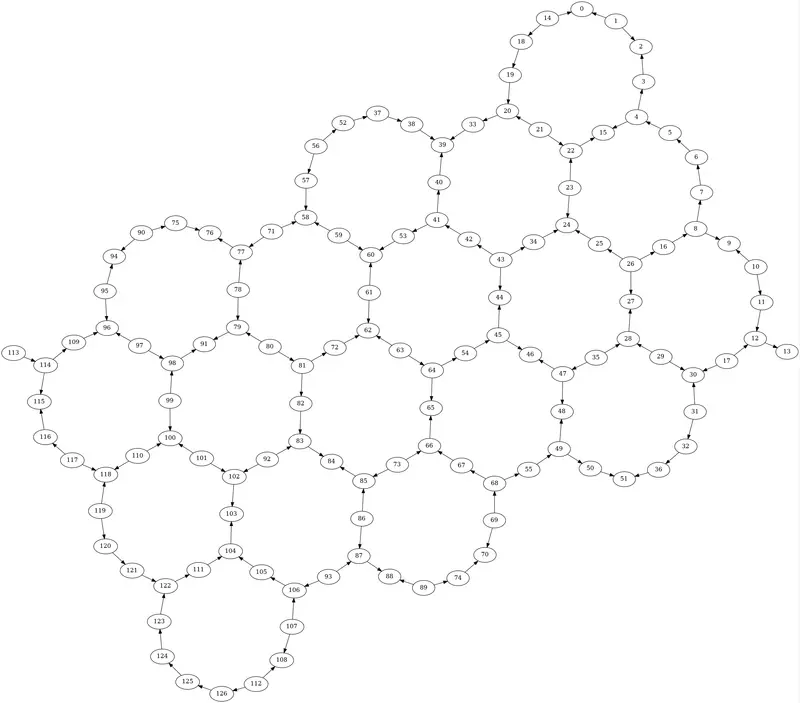
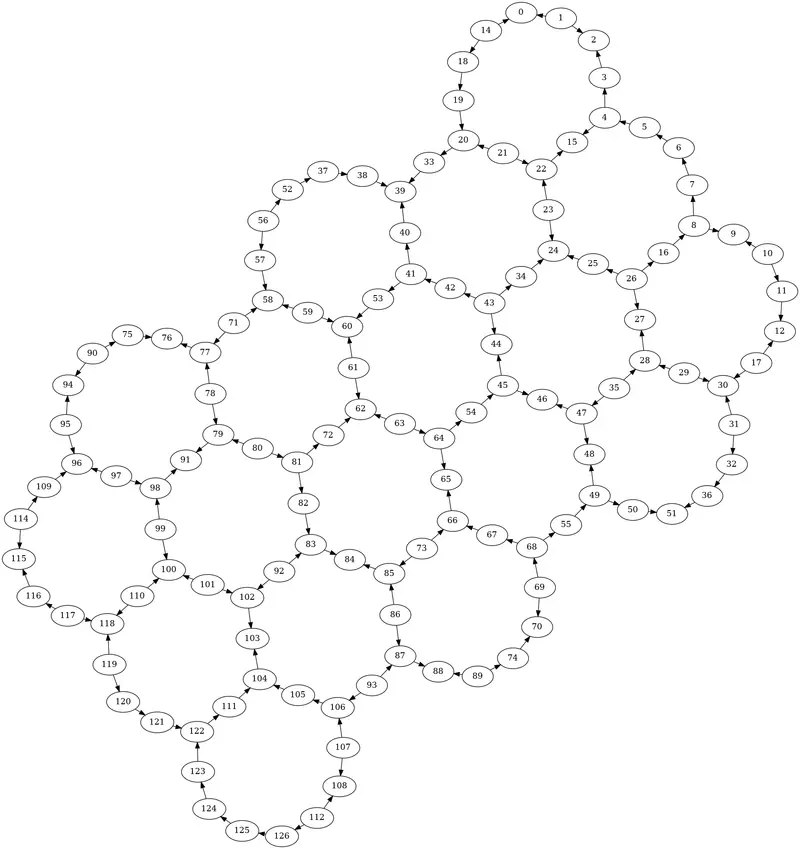
Deploying to gh-pages from @ soon-teh/soon-teh.github.io@ee4737b4a01c55de2f2b9fd6837beda7149f3444 🚀

diff --git a/blog/2023/quantum-challenge-spring-ghz/index.html b/blog/2023/quantum-challenge-spring-ghz/index.html
@@ -64,6 +64,7 @@
     <style type="text/css">
       .post-img {
   max-height: 60vh;
+  max-width: 90%;
 }
 
     </style>
@@ -224,6 +225,8 @@
 
 <p>A GHZ state can be constructed by expanding upon the Bell state preparation circuit.</p>
 
+<p><img class="mx-auto d-block mb-2 post-img" src="/assets/img/2023-05-30/centrality.png"></p>
+
 <p><img class="mx-auto d-block mb-2 post-img" src="/assets/img/2023-05-30/bfs-cnot.gif"></p>
 
 <h3 id="dynamic-circuit">Dynamic Circuit</h3>
@@ -274,9 +277,11 @@
 
 <p>The switch/case control flow acts similarly to the switch case in most programming languages and allows for an elegant way of implementing the parity X gate. However, at the time of writing, the backend <a href="https://github.com/Qiskit/qiskit-aer/pull/1778" rel="external nofollow noopener" target="_blank"><code class="language-plaintext highlighter-rouge">Aer 0.12.0</code> does not support <code class="language-plaintext highlighter-rouge">SwitchCaseOp</code></a>. So, the code implementation based on <code class="language-plaintext highlighter-rouge">if_test</code> and <code class="language-plaintext highlighter-rouge">c_if</code> are included for demonstration.</p>
 
-<p>The use of dynamic circuits for GHZ generation reduced the depth required to a fixed value independent of the size, provided one can find a route that visits every node once exists. This is exactly the <a href="https://en.wikipedia.org/wiki/Hamiltonian_path_problem" rel="external nofollow noopener" target="_blank">Hamiltonian path problem</a> which is known to be NP-hard. In general, the Hamiltonian path is not guaranteed to exist. Instead, one can find the longest possible non-overlapping path<d-footnote>The [longest path problem](https://en.wikipedia.org/wiki/Longest_path_problem) is also NP-hard, but it always exists unlike Hamiltonian path, and a "long enough" path is sufficient in most cases.</d-footnote>, ensuring a maximal number of qubits entangled with the dynamic circuits. The rest of the qubits can then be entangled with usual CNOT gates, imposing a small overhead on the circuit depth.</p>
+<p>The use of dynamic circuits for GHZ generation reduced the depth required to a fixed value independent of the size, provided one can find a route that visits every node once exists. This is exactly the <a href="https://en.wikipedia.org/wiki/Hamiltonian_path_problem" rel="external nofollow noopener" target="_blank">Hamiltonian path problem</a> which is known to be NP-hard. In general, the Hamiltonian path is not guaranteed to exist. Instead, one can find the longest possible non-overlapping path<d-footnote>The longest path problem is also NP-hard, but it always exists unlike Hamiltonian path, and a "long enough" path is sufficient in most cases.</d-footnote>, ensuring a maximal number of qubits entangled with the dynamic circuits. The rest of the qubits can then be entangled with usual CNOT gates, imposing a small overhead on the circuit depth.</p>
 
-<p>For <code class="language-plaintext highlighter-rouge">ibm_sherbrooke</code>, the longest path found is shown above. Uncoupled qubits can then be entangled in the next step with CNOT gates, introducing an overhead of depth 1.</p>
+<p><img class="mx-auto d-block mb-2 post-img" src="/assets/img/2023-05-30/chain.png"></p>
+
+<p>For <code class="language-plaintext highlighter-rouge">ibm_sherbrooke</code>, one possible solution to the longest path is shown above, tracing the red edges. Uncoupled qubits following the blue edges can then be entangled in the next step with CNOT gates, introducing an overhead of depth 1.</p>
 
 <h2 id="final-remarks">Final Remarks</h2>
 <p>The IBM Quantum Spring Challenge 2023 is an excellent opportunity for the community, beginners and professionals alike to learn about the latest development in quantum computing. Dynamic circuits being one of the new tools introduced in recent years, it would be exciting to see how they can advance the field of quantum computation. The implementation of the algorithms discussed for the generation of large GHZ state is available <a href="">here</a>.</p>
